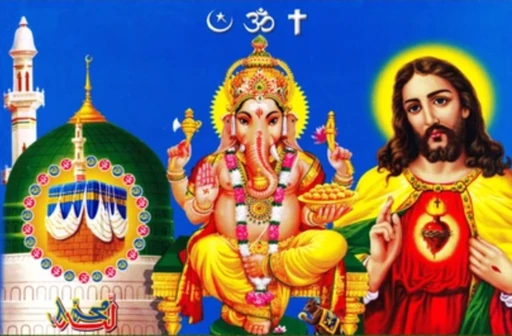
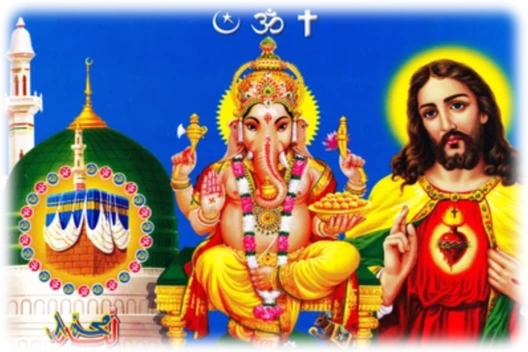
Soft edges on interfaith picture

diff --git a/css/style.css b/css/style.css
@@ -330,7 +330,7 @@ a { color: inherit; text-decoration: none; -webkit-tap-highlight-color: transpar
 .showreel { height: calc(1110 * var(--pu)); }
 .showreel__bg { width: 100%; height: auto; }
 /* the interfaith picture above the dashboard: a sharp copy laid exactly over the one painted into the background */
-.faith { position: absolute; left: calc(672 * var(--pu)); top: calc(102 * var(--pu)); width: calc(128 * var(--pu)); height: calc(84 * var(--pu)); object-fit: cover; border-radius: calc(2.5 * var(--pu)); outline: max(1px, calc(1 * var(--pu))) solid rgba(25,18,0,.85); outline-offset: calc(-1 * var(--pu)); pointer-events: none; }
+.faith { position: absolute; left: calc(670 * var(--pu)); top: calc(100 * var(--pu)); width: calc(132 * var(--pu)); height: calc(88 * var(--pu)); pointer-events: none; }   /* soft edges are in the image itself */
 /* ---- the TV: one framed box on the glass (screensaver GIF -> reel), 4:3 like the reel ---- */
 .tvbox {
   position: absolute; left: calc(577 * var(--pu)); top: calc(421 * var(--pu)); width: calc(302 * var(--pu)); height: calc(228 * var(--pu));

diff --git a/index.html b/index.html
@@ -154,7 +154,7 @@
     <section class="sec showreel" id="showreel" aria-label="Showreel">
       <div class="stage">
         <img class="showreel__bg" src="assets/showreel/showreel.webp" alt="Inside a hand-painted truck cab with a retro TV and the word SHOWREEL on the windscreen" width="1440" height="1110" loading="lazy" decoding="async">
-        <img class="faith" src="assets/showreel/interfaith.webp" alt="" width="512" height="336" loading="lazy" decoding="async">
+        <img class="faith" src="assets/showreel/interfaith.webp" alt="" width="528" height="352" loading="lazy" decoding="async">
         <!-- the reel plays right inside the TV; the file only loads on the first click -->
         <div class="tvbox" id="tvbox">
           <img class="tvbox__idle" src="assets/showreel/tv-screensaver.gif" alt="" loading="lazy" decoding="async">
